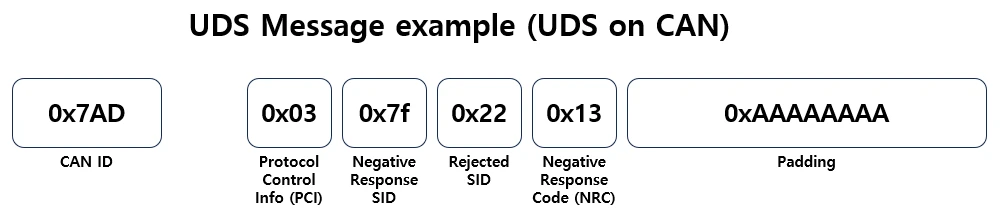
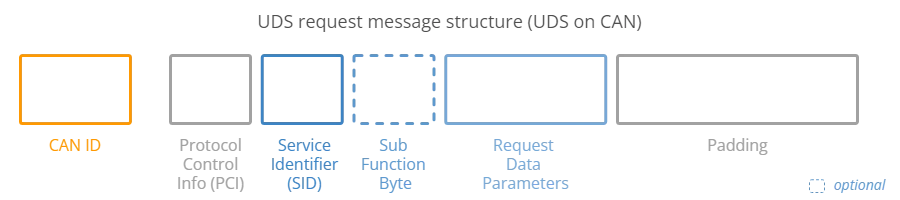
Update Importer posts

diff --git a/docs/UDS/UDS.md b/docs/UDS/UDS.md
@@ -38,10 +38,20 @@ redirect_from:
 💡 
 </div>
 <div class="callout-content" markdown="1">
-UDS (Unified Diagnostic Services) 메시지는 ISO 14229 표준을 따르는 특정한 구조를 가짐<br>Application Layer (ISO 14229-1)<br>Session Layer (ISO 14229-2)
+UDS (Unified Diagnostic Services) 메시지는 ISO 14229 표준을 따르는 특정한 구조를 가짐 (CAN bus의 기본 구조를 따른다)<br>ISO 14229-1 (Application Layer)<br>ISO 14229-3 (Application Layer for CAN)<br>ISO 14229-2 (Session Layer)<br>ISO 15765-2 (Transport + Network Layer for CAN)<br>ISO 11898 (Physical + Data Link Layer for CAN)
 </div>
 </div>
 </blockquote>
+
+
+
+| Frame Type                 | Byte 0   | \<                                                 | Byte 1 <br>Service ID (for UDS) | Byte 2 <br>Data        | …  | Byte 7 <br>Data |
+| -------------------------- | -------- | -------------------------------------------------- | ------------------------------- | ---------------------- | -- | --------------- |
+| Bit offset                 | Bit 7-4  | Bit 3-0                                            | Bit 15-8                        | Bit 23-16              | …  | Bit 63-56       |
+| Single Frame<br>(SF)       | Type = 0 | (0-7) Single frame data length                     | Data A                          | Data B                 | …  | Data G          |
+| First Frame<br>(FF)        | Type = 1 | Data length of multi frame data size (8-4096) Byte | \<                              | Data A                 | …  | Data F          |
+| Consecutive Frame<br>(CF)  | Type = 2 | Sequence number index (0-15)                       | Data A                          | Data B                 | …  | Data G          |
+| Flow Control Frame<br>(FC) | Type = 3 | Flow Control Flag (0, 1, 2)                        | Block size                      | Separation Time/ST min | NA | \<              |
 
 <div class="image-flex">
 <div class="image-item">
@@ -60,13 +70,63 @@ UDS (Unified Diagnostic Services) 메시지는 ISO 14229 표준을 따르는 특
 
 
 
-| Frame Type                 | Byte 0   | \<                                                 | Byte 1 <br>Service ID (for UDS) | Byte 2 <br>Data        | …  | Byte 7 <br>Data |
-| -------------------------- | -------- | -------------------------------------------------- | ------------------------------- | ---------------------- | -- | --------------- |
-| Bit offset                 | Bit 7-4  | Bit 3-0                                            | Bit 15-8                        | Bit 23-16              | …  | Bit 63-56       |
-| Single Frame<br>(SF)       | Type = 0 | (0-7) Single frame data length                     | Data A                          | Data B                 | …  | Data G          |
-| First Frame<br>(FF)        | Type = 1 | Data length of multi frame data size (8-4096) Byte | \<                              | Data A                 | …  | Data F          |
-| Consecutive Frame<br>(CF)  | Type = 2 | Sequence number index (0-15)                       | Data A                          | Data B                 | …  | Data G          |
-| Flow Control Frame<br>(FC) | Type = 3 | Flow Control Flag (0, 1, 2)                        | Block size                      | Separation Time/ST min | NA | \<              |
+## CAN ID
+
+- CAN 프로토콜에서 각 메시지는 고유한 식별자(CAN ID)를 가짐
+- 이 ID는 메시지의 우선순위를 결정하는데 사용되며, ID가 낮을 수록 우선순위가 높음
+
+## Protocol Control Info(PCI)
+
+- UDS 메시지에서 데이터의 길이와 형식을 나타냄
+- PCI는 실제 데이터에 대한 정보를 제공하며, 데이터가 어떤 형식인지(단일 프레임, 첫 번째 프레임, 연속 프레임 등)를 결정하는데 사용
+
+## UDS Serivce Identifier(SID)
+
+
+<blockquote class="notice">
+<div class="callout">
+<div class="callout-icon" markdown="1">
+💡 
+</div>
+<div class="callout-content" markdown="1">
+해당 자료의 자세한 내용은 [여기](/6c434e6207fc42a89f62176ec69d00be)에 있습니다.
+</div>
+</div>
+</blockquote>
+
+
+- 특정 진단 서비스를 식별하는 고유한 ID
+- ECU Reset을 요청하려면 SID 0x11을 사용
+
+## Request Data Parameters
+
+
+<blockquote class="notice">
+<div class="callout">
+<div class="callout-icon" markdown="1">
+💡 
+</div>
+<div class="callout-content" markdown="1">
+2-byte(0~65535)인 Data Identifier (DID)를 포함한다
+</div>
+</div>
+</blockquote>
+
+
+- 서비스의 세부 기능을 정의
+- 특정 요청에 대한 추가적인 세부 사항을 제공 (Sub function)
+
+## **UDS Sub Function Byte**
+
+- 서비스 요청을 수행하기 위해 필요한 추가 정보를 포함
+- 예를 들어 identifiers, memory addresses, values 등을 포
+
+## Padding
+
+- UDS 메시지는 일정한 길이를 유지해야함, 따라서 메시지가 해당 길이에 도달하지 못하는 경우 나머지 부분은 ‘패딩(Padding)’으로 채움
+- 일반적으로 0또는 A, 특정 값으로 설정됨
+
+## Positive Response
 
 <div class="image-flex">
 <div class="image-item">
@@ -84,117 +144,118 @@ UDS (Unified Diagnostic Services) 메시지는 ISO 14229 표준을 따르는 특
 </div>
 
 
+- 요청된 서비스 ID에 0x40을 더한 값을 SID로 보냄 - ex) 0x10에 대한 Positive Response는 0x50
+- Data payload에 요청된 작업에 대한 구체적인 응답 데이터를 보냄
 
-## CAN ID
+## Negative Response
 
-- CAN 프로토콜에서 각 메시지는 고유한 식별자(CAN ID)를 가짐
-- 이 ID는 메시지의 우선순위를 결정하는데 사용되며, ID가 낮을 수록 우선순위가 높음
+<div class="image-flex">
+<div class="image-item">
+<div class="image-item-img">
+<a data-fslightbox="/_images/UDS/3.webp" href="/_images/UDS/3.webp" data-type="image" aria-label="This is fslightbox">
+<div class="skeleton-loading">
+<div class="skeleton-img"></div>
+</div>
+<figure>
+<img loading="lazy" alt src="/_images/UDS/3.webp" title="" class="lazyload" />
+</figure>
+</a>
+</div>
+</div>
+</div>
 
-## Protocol Control Info(PCI)
 
-- UDS 메시지에서 데이터의 길이와 형식을 나타냄
-- PCI는 실제 데이터에 대한 정보를 제공하며, 데이터가 어떤 형식인지(단일 프레임, 첫 번째 프레임, 연속 프레임 등)를 결정하는데 사용
 
-## Negative Response SID
+### Negative Response SID
 
 - UDS 프로토콜에서, 응답(Response)이 Negative한 경우. 즉, 요청이 성공적으로 처리되지 못한 경우 Negative Response Service ID가 사용됨
 - 이는 클라이언트에게 요청이 실패했음을 알리는데 사용됨
 
-## Rejected SID
+### Rejected SID
 
 - 요청된 SID(Service ID)가 정상적으로 처리되지 못하거나 버전이 지원되지 않는 경우에 사용
 - 이는 클라이언트에게 해당 서비스가 현재 처리될 수 없거나 지원되지 않음을 알림
 
-## Negative Response Code(NRC)
+### Negative Response Code(NRC)
+
+
+<blockquote class="notice">
+<div class="callout">
+<div class="callout-icon" markdown="1">
+💡 
+</div>
+<div class="callout-content" markdown="1">
+해당 자료의 자세한 내용은 [여기](/0d9c3695803e41ed9a11aa5b632aab3a)에 있습니다.
+</div>
+</div>
+</blockquote>
+
 
 - 요청이 Negative로 처리된 경우, NRC는 Negative Response의 원인을 알려줌
 - 예를 들어, 요청된 기능이 서버에 의해 지원되지 않거나, 요청된 서비스가 현재 실행되지 못하는 상황 등을 나타낼 수 있음
 
-## Padding
+## **CAN ISO-TP - Transport Protocol (ISO 15765-2)**
 
-- UDS 메시지는 일정한 길이를 유지해야함, 따라서 메시지가 해당 길이에 도달하지 못하는 경우 나머지 부분은 ‘패딩(Padding’으로 채움
-- 일반적으로 0또는 A, 특정 값으로 설정됨
+- CAN ISO-TP (ISO 15765-2)는 CAN 버스에서 데이터를 전송하기 위한 표준 프로토콜
+- 데이터를 단일 프레임(Single-frame) 또는 다중 프레임(Multi-frame)으로 나누어 전송
 
-# UDS serivce Identifiers(SIDs)
-
-
-| UDS SID (request) | UDS SID (response) | Service                            | Details                                                               |
-| ----------------- | ------------------ | ---------------------------------- | --------------------------------------------------------------------- |
-| 0x10              | 0x50               | Diagnostic Session Control         | Control which UDS services are available                              |
-| 0x11              | 0x51               | ECU Reset                          | Reset the ECU (“hard reset”, “key off", “soft reset”)                 |
-| 0x27              | 0x67               | Security Access                    | Enable use of security-critical services via authentication           |
-| 0x28              | 0x68               | Communication Control              | Turn sending/receiving of messages on/off in the ECU                  |
-| 0x29              | 0x69               | Authentication                     | Enable more advanced authentication vs. 0x27 (PKI based exchange)     |
-| 0x3E              | 0x7E               | Tester Present                     | Send a "heartbeat" periodically to remain in the current session      |
-| 0x83              | 0xC3               | Access Timing Parameters           | View/modify timing parameters used in client/server communication     |
-| 0x84              | 0xC4               | Secured Data Transmission          | Send encrypted data via ISO 15764 (Extended Data Link Security)       |
-| 0x85              | 0xC5               | Control DTC Settings               | Enable/disable detection of errors (e.g. used during diagnostics)     |
-| 0x86              | 0xC6               | Response On Event                  | Request that an ECU processes a service request if an event happens   |
-| 0x87              | 0xC7               | Link Control                       | Set the baud rate for diagnostic access                               |
-| 0x22              | 0x62               | Read Data By Identifier            | Read data from targeted ECU - e.g. VIN, sensor data values etc.       |
-| 0x23              | 0x63               | Read Memory By Address             | Read data from physical memory (e.g. to understand software behavior) |
-| 0x24              | 0x64               | Read Scaling Data By Identifier    | Read information about how to scale data identifiers                  |
-| 0x2A              | 0x6A               | Read Data By Identifier Periodic   | Request ECU to broadcast sensor data at slow/medium/fast/stop rate    |
-| 0x2C              | 0x6C               | Dynamically Define Data Identifier | Define data parameter for use in 0x22 or 0x2A dynamically             |
-| 0x2E              | 0x6E               | Write Data By Identifier           | Program specific variables determined by data parameters              |
-| 0x3D              | 0x7D               | Write Memory By Address            | Write information to the ECU's memory                                 |
-| 0x14              | 0x54               | Clear Diagnostic Information       | Delete stored DTCs                                                    |
-| 0x19              | 0x59               | Read DTC Information               | Read stored DTCs, as well as related information                      |
-| 0x2F              | 0x6F               | Input Output Control By Identifier | Gain control over ECU analog/digital inputs/outputs                   |
-| 0x31              | 0x71               | Routine Control                    | Initiate/stop routines (e.g. self-testing, erasing of flash memory)   |
-| 0x34              | 0x74               | Request Download                   | Start request to add software/data to ECU (incl. location/size)       |
-| 0x35              | 0x75               | Request Upload                     | Start request to read software/data from ECU (incl. location/size)    |
-| 0x36              | 0x76               | Transfer Data                      | Perform actual transfer of data following use of 0x74/0x75            |
-| 0x37              | 0x77               | Request Transfer Exit              | Stop the transfer of data                                             |
-| 0x38              | 0x78               | Request File Transfer              | Perform a file download/upload to/from the ECU                        |
-| 0x7F              | \<                 | Negative Response                  | Sent with a Negative Response Code when a request cannot be handled   |
+<div class="image-flex">
+<div class="image-item">
+<div class="image-item-img">
+<a data-fslightbox="/_images/UDS/4.webp" href="/_images/UDS/4.webp" data-type="image" aria-label="This is fslightbox">
+<div class="skeleton-loading">
+<div class="skeleton-img"></div>
+</div>
+<figure>
+<img loading="lazy" alt src="/_images/UDS/4.webp" title="" class="lazyload" />
+</figure>
+</a>
+</div>
+</div>
+</div>
 
 
-# UDS NRC(Negative Response Code)
+
+### **ISO-TP: Single-frame communication**
+
+- 단일 프레임 통신은 데이터가 단일 CAN 프레임 내에 수용될 때 사용
+-  단일 프레임은 데이터 길이와 데이터 필드를 포함
+
+<div class="image-flex">
+<div class="image-item">
+<div class="image-item-img">
+<a data-fslightbox="/_images/UDS/5.webp" href="/_images/UDS/5.webp" data-type="image" aria-label="This is fslightbox">
+<div class="skeleton-loading">
+<div class="skeleton-img"></div>
+</div>
+<figure>
+<img loading="lazy" alt src="/_images/UDS/5.webp" title="" class="lazyload" />
+</figure>
+</a>
+</div>
+</div>
+</div>
 
 
-| NRC Hex   | Mnemonic | Use Case                                             |
-| --------- | -------- | ---------------------------------------------------- |
-| 0x10      | GR       | General Reject                                       |
-| 0x11      | SNS      | Service Not Supported                                |
-| 0x12      | SFNS     | Sub-Function Not Supported                           |
-| 0x13      | IMLOIF   | Incorrect Message Length or Invalid Format           |
-| 0x14      | RTL      | Response Too Long                                    |
-| 0x21      | BRR      | Busy Repeat Request                                  |
-| 0x22      | CNC      | Conditions Not Correct                               |
-| 0x24      | RSE      | Request Sequence Error                               |
-| 0x25      | NRFSC    | No Response From Subnet Component                    |
-| 0x26      | FPEORA   | Failure Prevents Execution Of Requested Action       |
-| 0x31      | ROOR     | Request Out of Range                                 |
-| 0x33      | SAD      | Security Access Denied                               |
-| 0x35      | IK       | InvalidKey                                           |
-| 0x36      | ENOA     | ExceedNumberOfAttempts                               |
-| 0x37      | RTDNE    | RequiredTimeDelayNotExpired                          |
-| 0x38-0x4F | RBEDLSD  | Reserved by Extended Data Link Security Document     |
-| 0x70      | UDNA     | Upload/Download Not Accepted                         |
-| 0x71      | TDS      | Transfer Data Suspended                              |
-| 0x72      | GPF      | General Programming Failure                          |
-| 0x73      | WBSC     | Wrong Block Sequence Counter                         |
-| 0x78      | RCRRP    | Response Correctly Received, But Response is Pending |
-| 0x7E      | SFNSIAS  | Sub-Function Not Supported in Active Session         |
-| 0x7F      | SNSIAS   | Service Not Supported in Active Session              |
-| 0x81      | RTH      | RPM Too High                                         |
-| 0x82      | RTL      | RPM Too Low                                          |
-| 0x83      | EIR      | Engine is Running                                    |
-| 0x84      | EINR     | Engine is Not Running                                |
-| 0x85      | ERTTL    | Engine Run Time Too Low                              |
-| 0x86      | TTH      | Temperature Too High                                 |
-| 0x87      | TTL      | Temperature Too Low                                  |
-| 0x88      | VSTH     | Vehicle Speed Too High                               |
-| 0x89      | VSTL     | Vehicle Speed Too Low                                |
-| 0x8A      | TPTH     | Throttle Pedal Too High                              |
-| 0x8B      | TPTL     | Throttle Pedal Too Low                               |
-| 0x8C      | TRNIN    | Transmission Range Not in Neutral                    |
-| 0x8D      | TRNIG    | Transmission Range Not in Dear                       |
-| 0x8F      | BSNC     | Brake Switches Not Closed                            |
-| 0x90      | SLNIP    | Shifter Lever Not in Park                            |
-| 0x91      | TCCL     | Torque Converter Clutch Locked                       |
-| 0x92      | VTH      | Voltage Too High                                     |
-| 0x93      | VTL      | Voltage Too Low                                      |
-| 0xF0-0xFE |          | Manufacturer Specific Conditions Not Correct         |
+
+### **ISO-TP: Multi-frame communication**
+
+- 다중 프레임 통신은 데이터가 단일 CAN 프레임에 수용될 수 없을 때 사용
+- 첫 번째 프레임, 연속 프레임, 그리고 종료 프레임을 사용하여 데이터를 나누어 전송
+
+<div class="image-flex">
+<div class="image-item">
+<div class="image-item-img">
+<a data-fslightbox="/_images/UDS/6.webp" href="/_images/UDS/6.webp" data-type="image" aria-label="This is fslightbox">
+<div class="skeleton-loading">
+<div class="skeleton-img"></div>
+</div>
+<figure>
+<img loading="lazy" alt src="/_images/UDS/6.webp" title="" class="lazyload" />
+</figure>
+</a>
+</div>
+</div>
+</div>
+
 

diff --git a/docs/UDS/NRC.md b/docs/UDS/NRC.md
@@ -13,6 +13,8 @@ redirect_from:
 ---
 # UDS NRC(Negative Response Code)
 
+- ECU가 진단 요청을 처리할 수 없을 때 송신되는 코드
+- 진단 도구가 문제를 이해하고 해결하는 데 도움을 줄 수 있음
 
 | NRC Hex   | Mnemonic | Use Case                                             |
 | --------- | -------- | ---------------------------------------------------- |
@@ -58,7 +60,9 @@ redirect_from:
 | 0x92      | VTH      | Voltage Too High                                     |
 | 0x93      | VTL      | Voltage Too Low                                      |
 | 0xF0-0xFE |          | Manufacturer Specific Conditions Not Correct         |
-|           |          |                                                      |
+
+
+## with Description
 
 
 | value       | Mnemonic | responseCode                                                      | Description                                                                                                                                                                                                                                                                                                                                                                                                                                                                                                                                                                                                                                                                                                                                                                                                                                                                                                                                                                                                                                                                                                                                                                                                                                                                                                                                                                                                                                                                                                                                                                                                                                                                                                                                                                                                                         |

diff --git a/docs/UDS/Services_Identifiers.md b/docs/UDS/Services_Identifiers.md
@@ -13,6 +13,9 @@ redirect_from:
 ---
 # UDS serivce Identifiers(SIDs)
 
+- 차량의 ECU와 진단 도구 간의 통신에서 사용되는 특정 명령 또는 서비스를 식별하는 고유한 코드
+- 각 SID는 ECU가 수행해야 할 진단 작업을 정의
+- UDS 프로토콜에서 SIDs는 특정 기능을 요청하거나 실행하기 위해 사용
 
 | UDS SID (request) | UDS SID (response) | Service                                | Details                                                                 | Sub function types               | Sub function |
 | ----------------- | ------------------ | -------------------------------------- | ----------------------------------------------------------------------- | -------------------------------- | ------------ |
